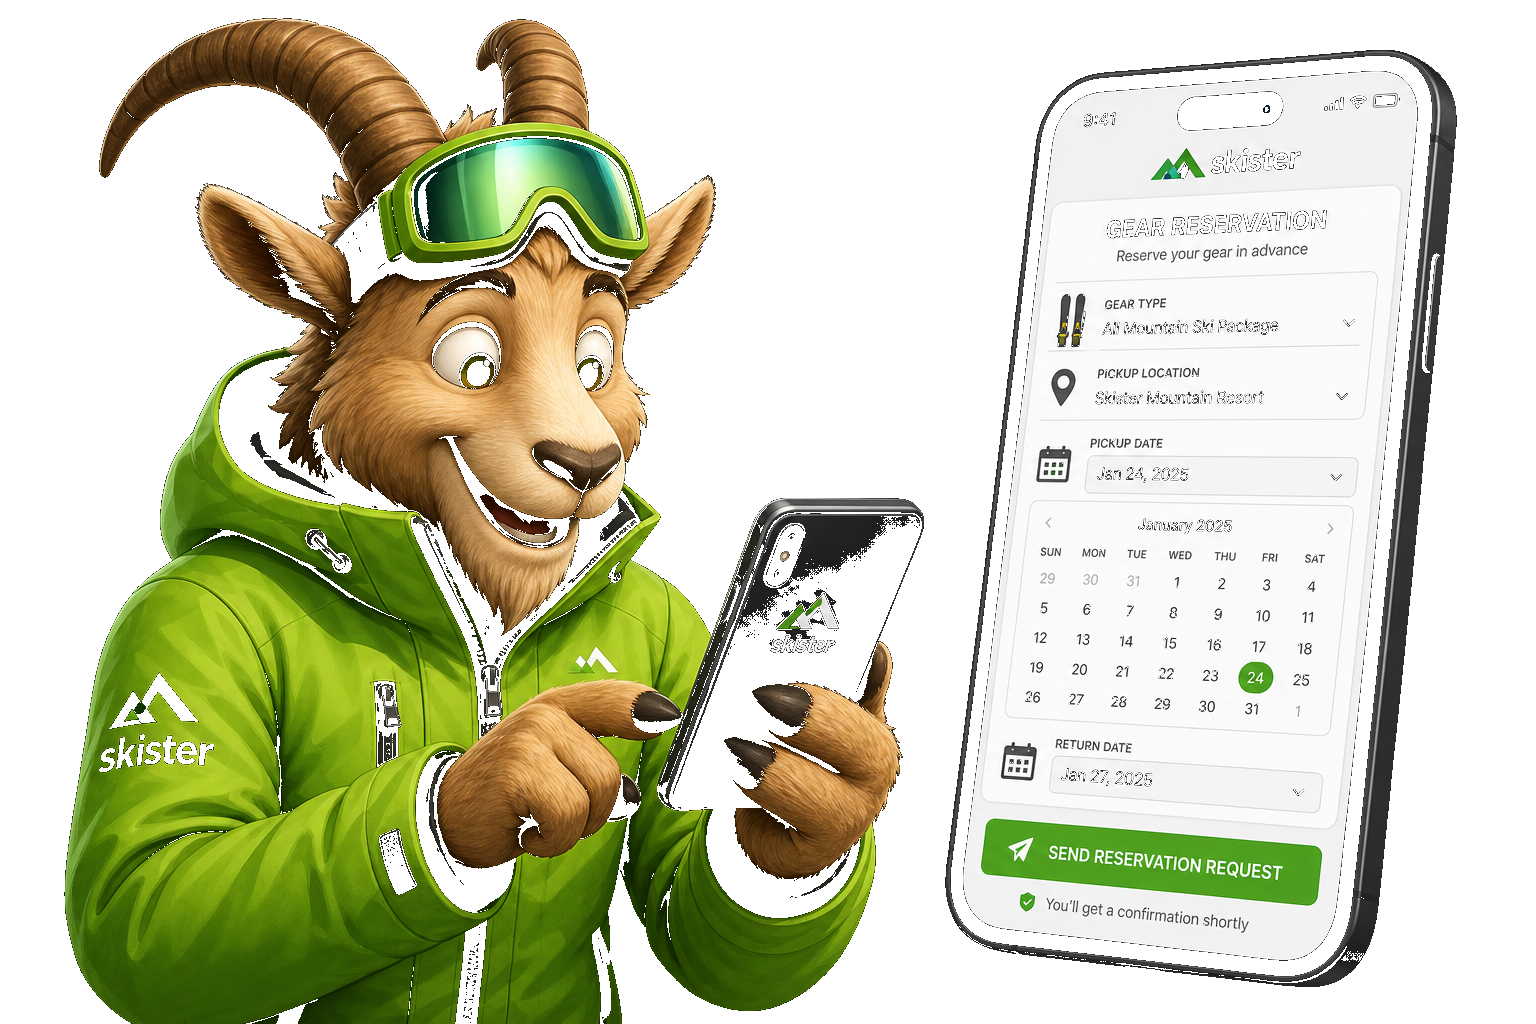
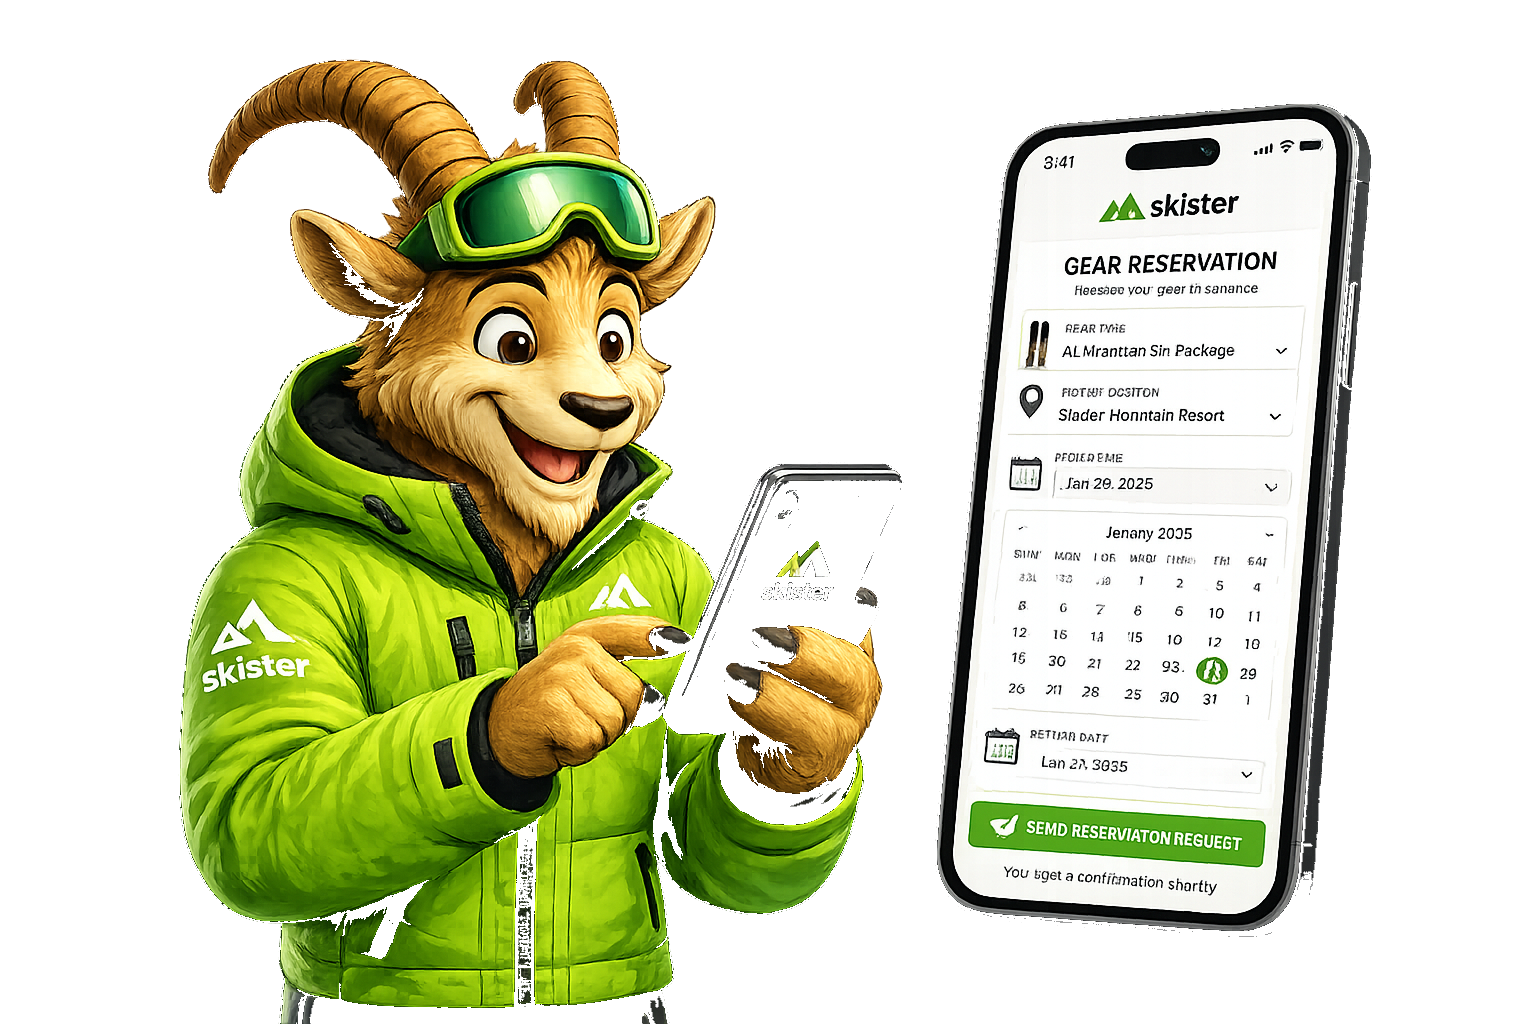
Use the transparent Request a reservation mascot on the landing site.
Point the onboarding slide and CMS image override at the cleaned Supabase asset so the black background no longer shows.

diff --git a/index.html b/index.html
@@ -1902,7 +1902,7 @@
             </div>
             <div class="onboarding-slide" data-onboarding-step="3">
                 <div class="onboarding-mascot-wrap">
-                    <img class="onboarding-mascot" src="assets/onboarding/reservation-request.png" alt="" data-i18n-alt="onboarding.step4.title" loading="lazy" decoding="async">
+                    <img class="onboarding-mascot" src="https://ayomhapkzckbhgwxenwr.supabase.co/storage/v1/object/public/SkisterApp/Request%20a%20reservation.png" alt="" data-i18n-alt="onboarding.step4.title" loading="lazy" decoding="async">
                 </div>
                 <div class="onboarding-content">
                     <h3 data-i18n="onboarding.step4.title">Reservierung anfragen</h3>